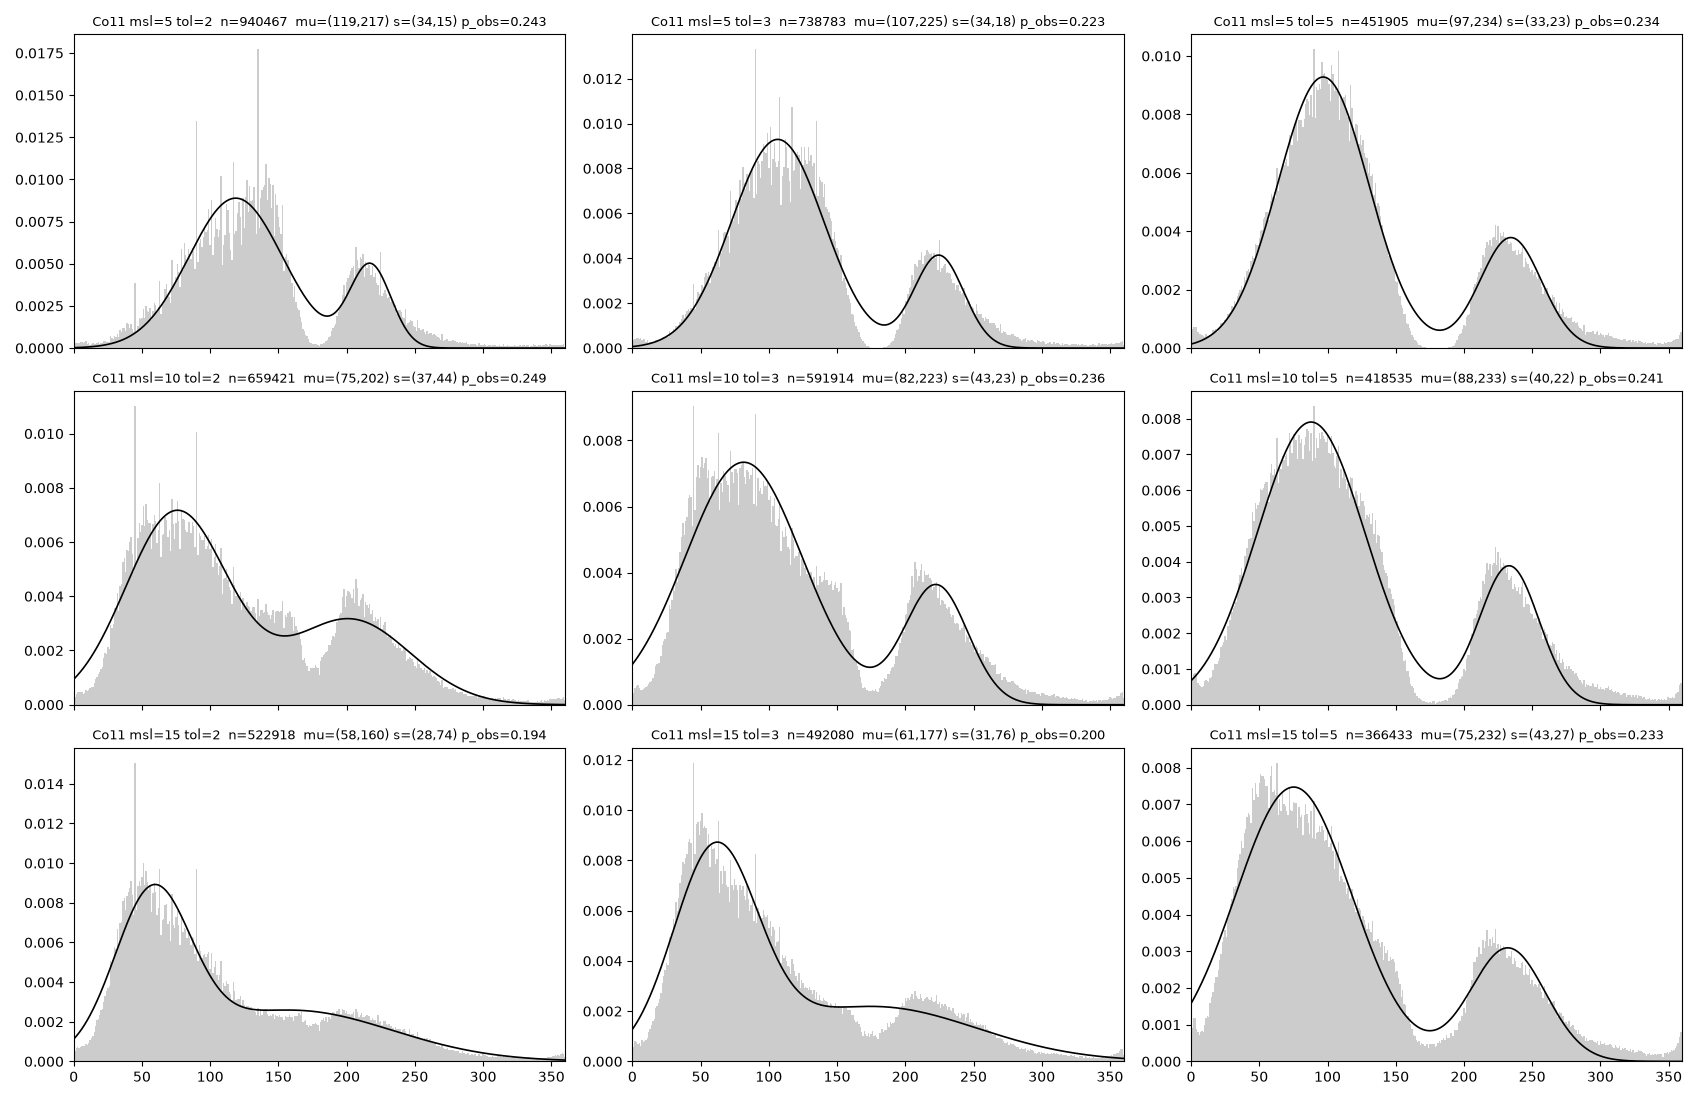
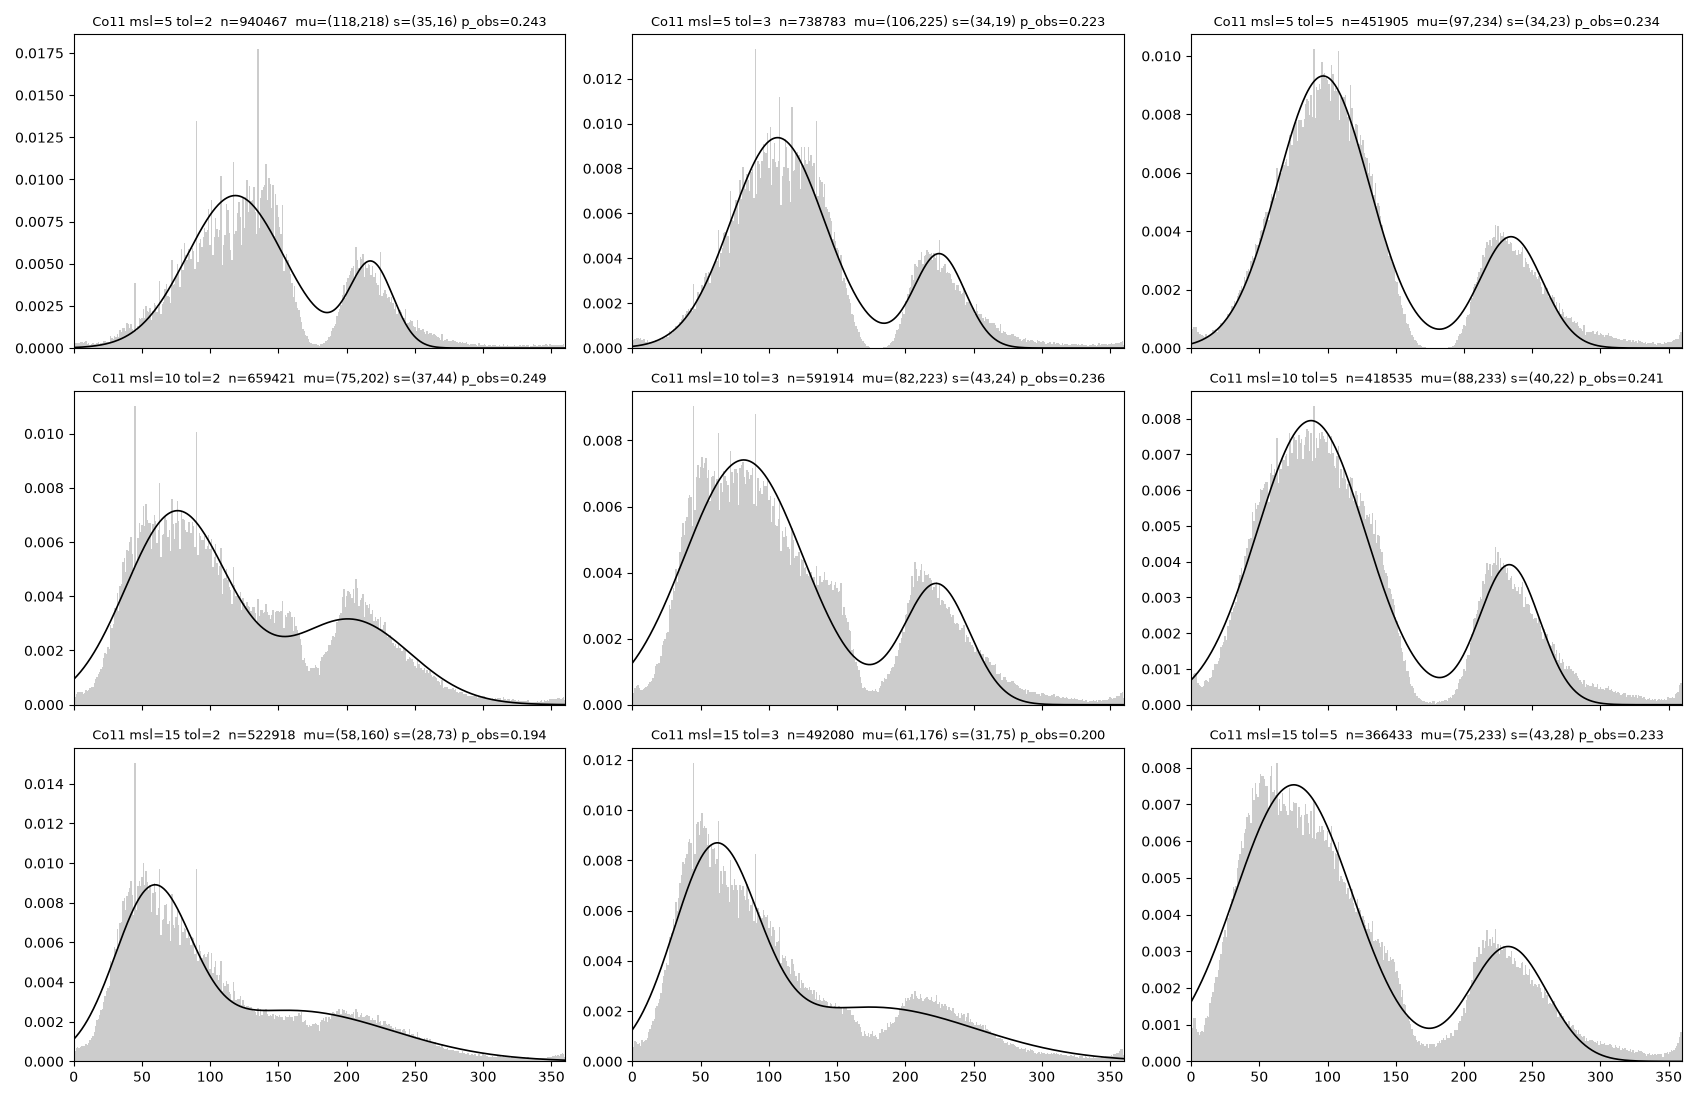
Move the analysis and notebooks to combra 0.13.0 shares; refit the parquets
combra 0.13.0 fits one mass share instead of two amplitudes and renames the
metric keys to share1/share2 and the parquet column to angles_gauss_shares.
The convergence and consistency notebooks read the new keys, the extraction
sweep analysis reads the new column, and refit_parquets_013.py refits every
stored density in data/angles and data/angles_sweep_extraction (originals
kept as *.pre013). The pilot scripts are marked as the record of a run made
against the 0.12.0 parquets.

diff --git a/analysis/extraction_sweep_analysis.py b/analysis/extraction_sweep_analysis.py
@@ -1,8 +1,8 @@
 """Tabulate the extraction-parameter sweep written by extraction_sweep.py.
 
 Per (min_segment_len, angles_tol, class): angle count, the stored 5-degree
-LSQ fit, the model-free reflex share, the fit's reflex share, the unclaimed
-mass, the relative residual, the pixel-grid peaks at 45 and 90 degrees, the
+LSQ fit, the model-free reflex share, the fit's reflex share, the relative
+residual, the pixel-grid peaks at 45 and 90 degrees, the
 share of the sample in the five most repeated exact values, the observed and
 fitted mass in the 180-degree trough and in the edge tails.
 """
@@ -22,12 +22,12 @@ SWEEP = ROOT / "data/angles_sweep_extraction"
 OUT = Path(__file__).resolve().parent
 
 
-def mass_between(a, b, mus, sigmas, amps):
+def mass_between(a, b, mus, sigmas, shares):
     tot = 0.0
-    for mu, sg, amp in zip(mus, sigmas, amps, strict=True):
+    for mu, sg, w in zip(mus, sigmas, shares, strict=True):
         z = norm.cdf(360, mu, sg) - norm.cdf(0, mu, sg)
-        tot += amp * (norm.cdf(b, mu, sg) - norm.cdf(a, mu, sg)) / z
-    return tot / sum(amps)
+        tot += w * (norm.cdf(b, mu, sg) - norm.cdf(a, mu, sg)) / z
+    return tot
 
 
 def peak_ratio(x1, y1, c):
@@ -48,37 +48,37 @@ for f in sorted(glob.glob(f"{SWEEP}/*_msl*_tol*/angles_n360.parquet")):
         n_img = r["meta"]["n_images"]
         st = next(p for p in r["prep_per_step"] if abs(p["step"] - 5.0) < 1e-9)
         x5, y5 = np.asarray(st["angles_density_x"], float), np.asarray(st["angles_density_y"], float)
-        mus, sg, amps = st["angles_gauss_mus"], st["angles_gauss_sigmas"], st["angles_gauss_amps"]
-        curve = stats.truncated_bimodal_gaussian(x5, *mus, *sg, *amps)
+        mus, sg, shares = st["angles_gauss_mus"], st["angles_gauss_sigmas"], st["angles_gauss_shares"]
+        curve = stats.truncated_bimodal_gaussian(x5, *mus, *sg, shares[0], 5.0)
         rel_res = float(np.sum((curve - y5) ** 2) / np.sum(y5**2))
         x1, y1 = stats.density_histogram(theta, 1.0)
         x1, y1 = np.asarray(x1, float), np.asarray(y1, float)
         vals, cnt = np.unique(np.round(theta, 6), return_counts=True)
         top5 = float(np.sort(cnt)[::-1][:5].sum() / theta.size)
         p_obs = float(np.mean(theta > 180))
-        p_fit = mass_between(180, 360, mus, sg, amps)
+        p_fit = mass_between(180, 360, mus, sg, shares)
         trough_obs = float(np.mean((theta >= 170) & (theta < 190)))
-        trough_fit = mass_between(170, 190, mus, sg, amps)
+        trough_fit = mass_between(170, 190, mus, sg, shares)
         tail_obs = float(np.mean((theta < 20) | (theta >= 340)))
-        tail_fit = mass_between(0, 20, mus, sg, amps) + mass_between(340, 360, mus, sg, amps)
+        tail_fit = mass_between(0, 20, mus, sg, shares) + mass_between(340, 360, mus, sg, shares)
         rows.append(
             dict(
                 msl=msl, tol=tol, cls=name, n=theta.size, per_img=theta.size / n_img,
-                mu1=mus[0], mu2=mus[1], s1=sg[0], s2=sg[1], p=amps[0] / sum(amps),
-                p_obs=p_obs, p_fit=p_fit, unclaimed=1 - sum(amps) / 5.0, rel_res=rel_res,
+                mu1=mus[0], mu2=mus[1], s1=sg[0], s2=sg[1], p=shares[0],
+                p_obs=p_obs, p_fit=p_fit, rel_res=rel_res,
                 pk45=peak_ratio(x1, y1, 45), pk90=peak_ratio(x1, y1, 90), top5=top5,
                 trough_obs=trough_obs, trough_fit=trough_fit, tail_obs=tail_obs, tail_fit=tail_fit,
             )
         )
-        hists[(name, msl, tol)] = (x1, y1, x5, curve, mus, sg, amps)
+        hists[(name, msl, tol)] = (x1, y1, x5, curve, mus, sg, shares)
 
-hdr = "| class | msl | tol | n | per img | mu1 | mu2 | s1 | s2 | p (amp share) | p_obs | p_fit | unclaimed | rel res | pk45 | pk90 | top5 repeated | trough obs/fit | tail obs/fit |"
+hdr = "| class | msl | tol | n | per img | mu1 | mu2 | s1 | s2 | w (share 1) | p_obs | p_fit | rel res | pk45 | pk90 | top5 repeated | trough obs/fit | tail obs/fit |"
 print(hdr)
 print("|" + "---|" * (hdr.count("|") - 1))
 for r in sorted(rows, key=lambda r: (r["cls"], r["msl"], r["tol"])):
     print(
         f"| {r['cls']} | {r['msl']} | {r['tol']} | {r['n']} | {r['per_img']:.0f} | {r['mu1']:.1f} | {r['mu2']:.1f} | {r['s1']:.1f} | {r['s2']:.1f} "
-        f"| {r['p']:.3f} | {r['p_obs']:.3f} | {r['p_fit']:.3f} | {r['unclaimed']:+.3f} | {r['rel_res']:.4f} | {r['pk45']:.2f} | {r['pk90']:.2f} | {r['top5']:.1%} "
+        f"| {r['p']:.3f} | {r['p_obs']:.3f} | {r['p_fit']:.3f} | {r['rel_res']:.4f} | {r['pk45']:.2f} | {r['pk90']:.2f} | {r['top5']:.1%} "
         f"| {r['trough_obs']:.3f}/{r['trough_fit']:.3f} | {r['tail_obs']:.3f}/{r['tail_fit']:.3f} |"
     )
 
@@ -92,10 +92,10 @@ for cls in sorted({r["cls"] for r in rows}):
     for i, msl in enumerate((5, 10, 15)):
         for j, tol in enumerate((2, 3, 5)):
             ax = axes[i, j]
-            x1, y1, x5, curve, mus, sg, amps = hists[(cls, msl, tol)]
+            x1, y1, x5, curve, mus, sg, shares = hists[(cls, msl, tol)]
             ax.bar(x1, y1, width=1.0, color="0.8")
             xx = np.linspace(0, 360, 721)
-            ax.plot(xx, stats.truncated_bimodal_gaussian(xx, *mus, *sg, *amps) / 5.0, "k-", lw=1.2)
+            ax.plot(xx, stats.truncated_bimodal_gaussian(xx, *mus, *sg, shares[0]), "k-", lw=1.2)
             rr = next(r for r in rows if (r["cls"], r["msl"], r["tol"]) == (cls, msl, tol))
             ax.set_title(f"{cls} msl={msl} tol={tol}  n={rr['n']}  mu=({mus[0]:.0f},{mus[1]:.0f}) s=({sg[0]:.0f},{sg[1]:.0f}) p_obs={rr['p_obs']:.3f}", fontsize=9)
             ax.set_xlim(0, 360)

diff --git a/analysis/refit_parquets_013.py b/analysis/refit_parquets_013.py
@@ -1,0 +1,65 @@
+"""Refit stored angle parquets to the combra 0.13.0 schema (mass share, not amplitudes).
+
+Reads each parquet, refits every stored density with the five-parameter
+fit, replaces the `angles_gauss_amps` column with `angles_gauss_shares` and
+rewrites the file under the current ANGLES_SCHEMA. The original is kept next
+to it as `<name>.pre013`. No h5 access or angle re-extraction is involved.
+
+Usage: python refit_parquets_013.py [--dry-run]
+"""
+
+import glob
+import shutil
+import sys
+from pathlib import Path
+
+import numpy as np
+import pyarrow as pa
+import pyarrow.parquet as pq
+
+import combra
+from combra.fitting import fit_bimodal_gaussian
+from combra.io.schema import ANGLES_SCHEMA
+
+ROOT = Path("/home/david/mnt/ssd_2_sata/phd/wc_cv/data")
+PATTERNS = ("angles/*_msl5/angles_n*.parquet", "angles_sweep_extraction/*/angles_n360.parquet")
+DRY = "--dry-run" in sys.argv
+
+
+def refit(path: Path) -> None:
+    names = pq.read_schema(path).names
+    table = pq.read_table(path)
+    rows = table.to_pylist()
+    prep_names = table.schema.field("prep_per_step").type.value_type.names
+    if "angles_gauss_amps" not in prep_names:
+        print(f"skip (already current): {path}")
+        return
+    n_fits = 0
+    for row in rows:
+        for st in row["prep_per_step"]:
+            x = np.asarray(st["angles_density_x"], float)
+            y = np.asarray(st["angles_density_y"], float)
+            (x_g, y_g), mus, sigmas, shares, _ = fit_bimodal_gaussian(x, y)
+            st.pop("angles_gauss_amps")
+            st["angles_gauss_x"] = [float(v) for v in x_g]
+            st["angles_gauss_y"] = [float(v) for v in y_g]
+            st["angles_gauss_mus"] = [float(v) for v in mus]
+            st["angles_gauss_sigmas"] = [float(v) for v in sigmas]
+            st["angles_gauss_shares"] = [float(v) for v in shares]
+            n_fits += 1
+        note = row["run_meta"].get("notes") or ""
+        row["run_meta"]["notes"] = (note + "; " if note else "") + f"fits refitted with combra {combra.__version__}"
+    out = pa.Table.from_pylist(rows, schema=ANGLES_SCHEMA)
+    if DRY:
+        print(f"would rewrite {path} ({n_fits} fits)")
+        return
+    backup = path.with_suffix(path.suffix + ".pre013")
+    if not backup.exists():
+        shutil.copy2(path, backup)
+    pq.write_table(out, path)
+    print(f"rewrote {path} ({n_fits} fits; backup {backup.name}); columns were {names}")
+
+
+for pattern in PATTERNS:
+    for f in sorted(glob.glob(str(ROOT / pattern))):
+        refit(Path(f))

diff --git a/analysis/pilot_bg.py b/analysis/pilot_bg.py
@@ -1,5 +1,11 @@
 """Follow-up to the pilot: two truncated Gaussians + uniform background,
 fitted by the grouped likelihood (variant B, h = 1), against LSQ."""
+# NOTE: this pilot ran on 2026-09-03 against the combra 0.12.0 parquets, whose
+# stored fits carried two amplitudes under `angles_gauss_amps`. The parquets
+# were refitted to the 0.13.0 schema afterwards (`angles_gauss_shares`), so the
+# stored-fit comparisons here no longer run as-is; the JSON reports and figures
+# next to this file are the record of the pilot.
+
 
 import glob
 import json

diff --git a/analysis/pilot_mle.py b/analysis/pilot_mle.py
@@ -4,6 +4,12 @@ combra's least-squares histogram fit (LSQ), on the three reference parquets.
 
 Usage: python pilot_mle.py synthetic | pilot
 """
+# NOTE: this pilot ran on 2026-09-03 against the combra 0.12.0 parquets, whose
+# stored fits carried two amplitudes under `angles_gauss_amps`. The parquets
+# were refitted to the 0.13.0 schema afterwards (`angles_gauss_shares`), so the
+# stored-fit comparisons here no longer run as-is; the JSON reports and figures
+# next to this file are the record of the pilot.
+
 
 import glob
 import json

diff --git a/analysis/summarize.py b/analysis/summarize.py
@@ -1,4 +1,10 @@
 """Turn pilot_report.json into the criteria tables (a)-(f) of plan task 3."""
+# NOTE: this pilot ran on 2026-09-03 against the combra 0.12.0 parquets, whose
+# stored fits carried two amplitudes under `angles_gauss_amps`. The parquets
+# were refitted to the 0.13.0 schema afterwards (`angles_gauss_shares`), so the
+# stored-fit comparisons here no longer run as-is; the JSON reports and figures
+# next to this file are the record of the pilot.
+
 
 import json
 import os
